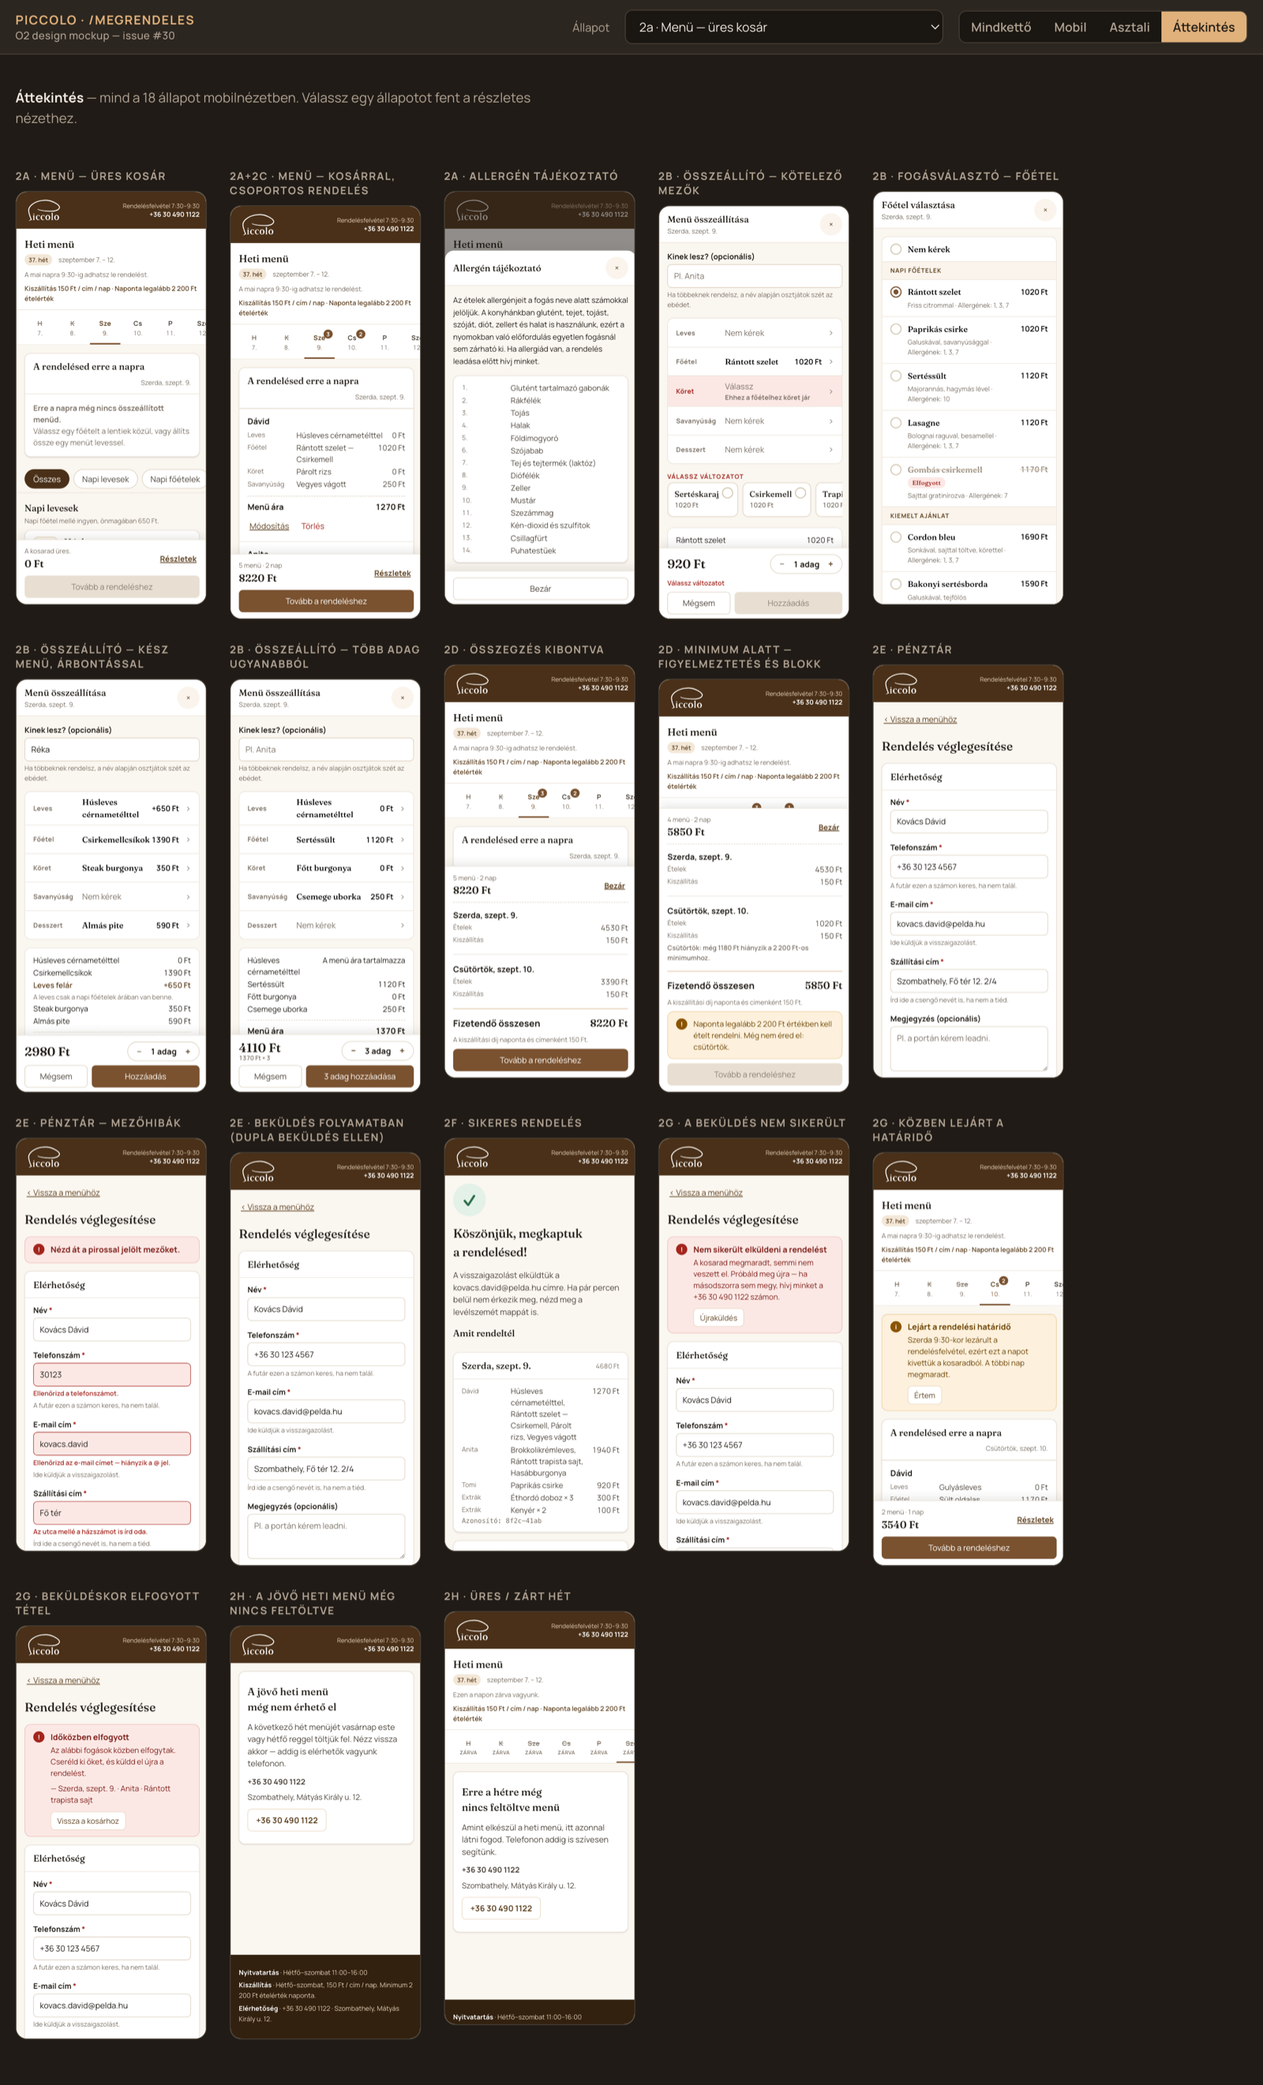
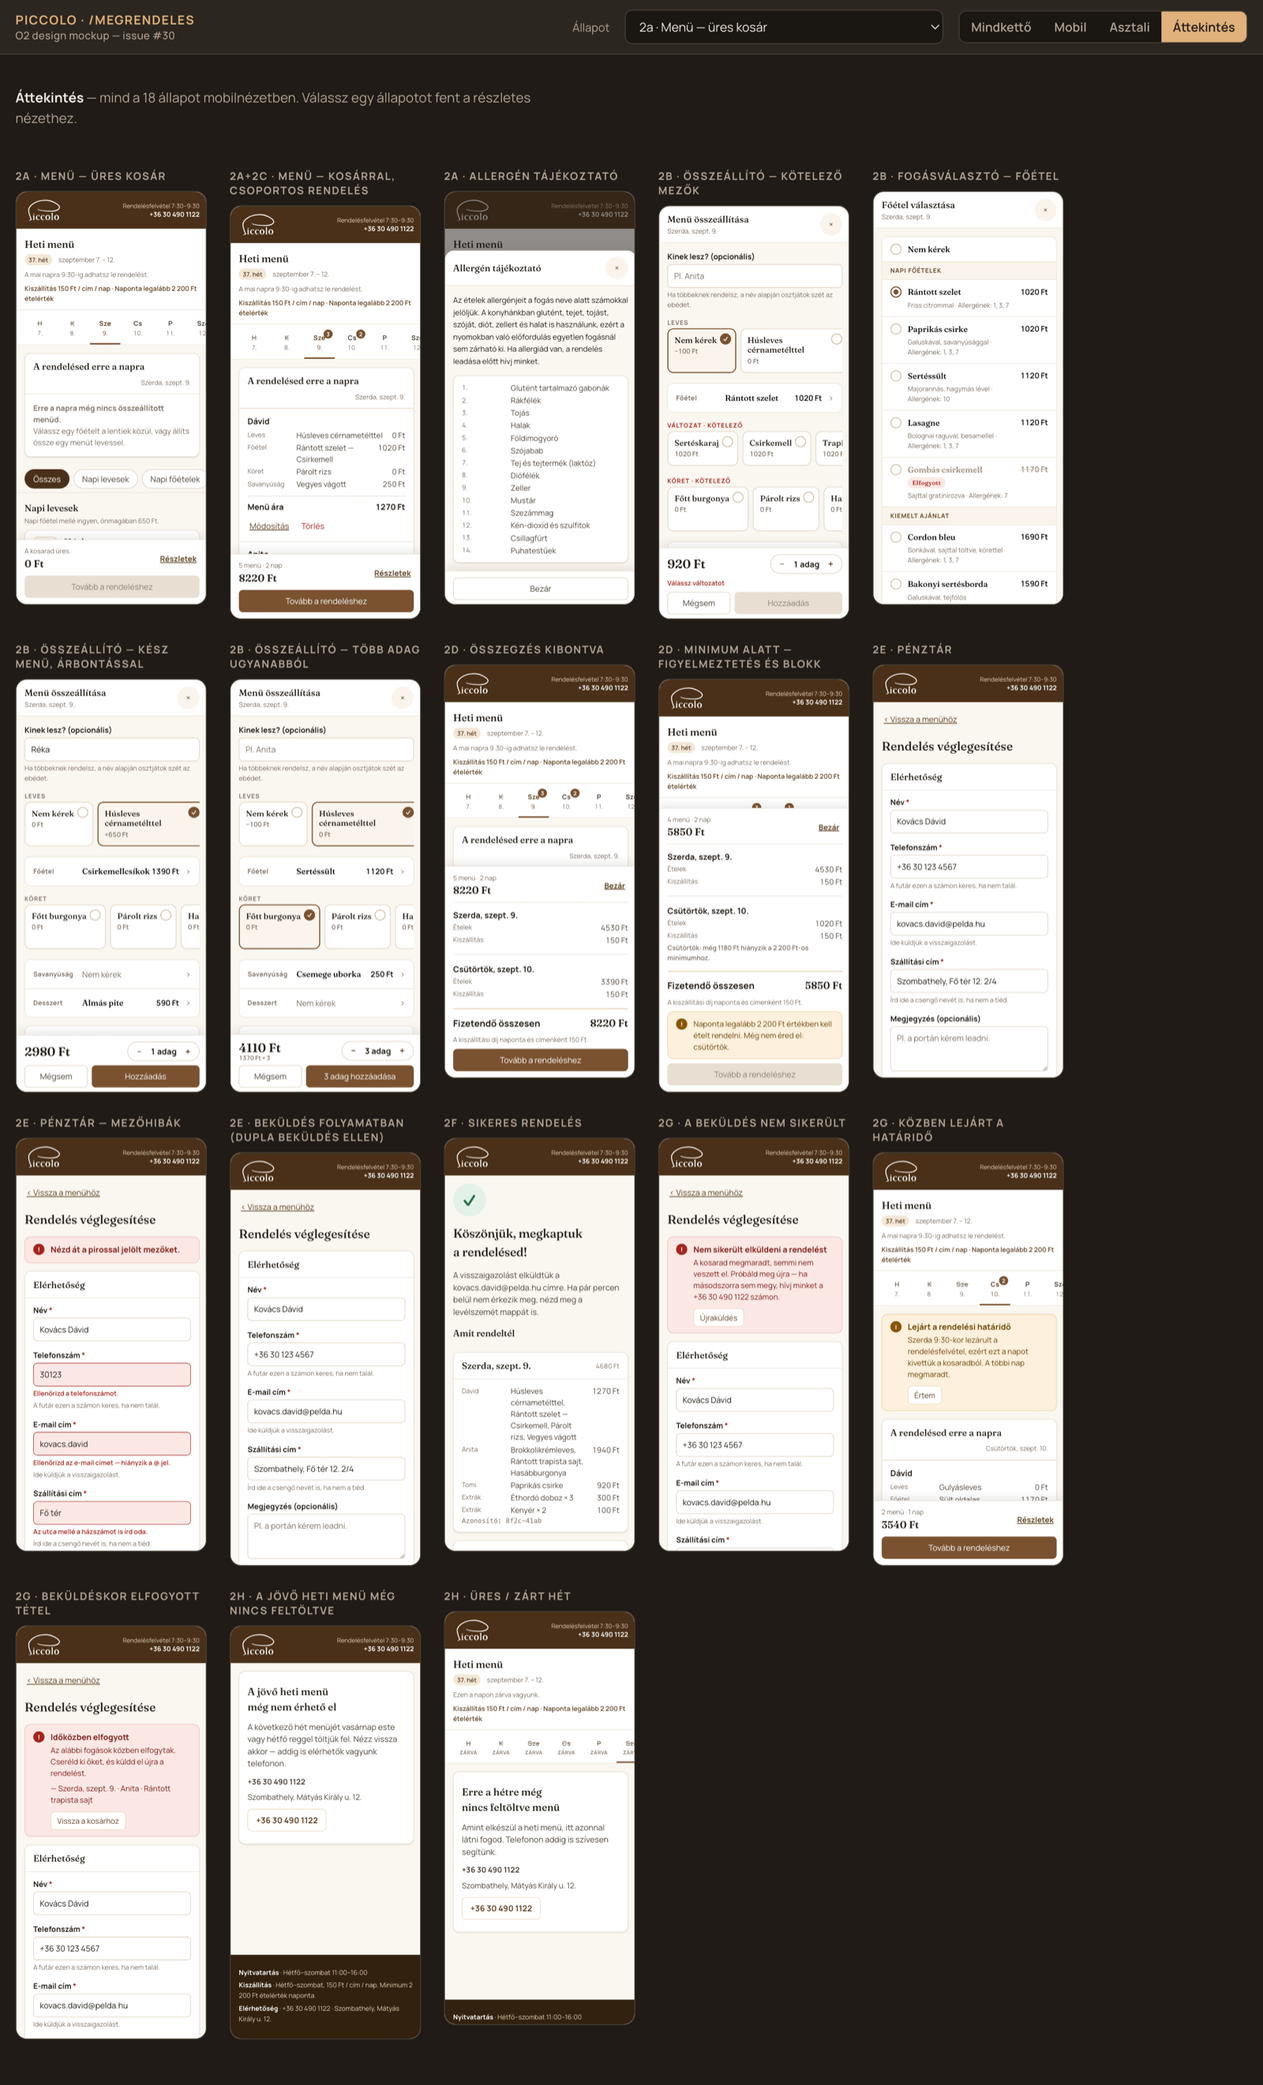
O2: make soup, variation and side inline choice cards
Dávid asked whether soup could be a radio box too. It can, and it should: the
day has two soups, and the soup slot is where both price adjustments live, so
the cards carry the adjustment itself — "Nem kérek −100 Ft", "Húsleves +650 Ft"
— visible before the tap. In the old system that price only appeared afterwards,
and it was charged at 450 while the site advertised 650.

Side gets the same treatment: seven options, and it is the only required slot,
so it should be satisfiable without leaving the sheet. Main keeps its row and
picker (11 options across three categories, and the composer is usually entered
from a main anyway). Pickle and dessert stay rows to keep the sheet short.

A required block is labelled "KÖRET · KÖTELEZŐ" — the requirement is a word, not
only a colour. Choosing a main now also clears a side that no longer applies.

Changed region(s): [[0.1875, 0.3724, 0.3125, 0.4966], [0.5312, 0.1552, 0.6875, 0.2483], [0.0312, 0.3724, 0.1562, 0.4966]]

diff --git a/docs/design/megrendeles/mockup.html b/docs/design/megrendeles/mockup.html
@@ -1260,20 +1260,21 @@
         text-decoration-color: var(--line-strong);
       }
 
-      .varcards {
+      .choicecards {
         display: flex;
         gap: var(--s-2);
         overflow-x: auto;
         scrollbar-width: none;
         padding: 2px 0 var(--s-1);
       }
-      .varcards::-webkit-scrollbar {
+      .choicecards::-webkit-scrollbar {
         display: none;
       }
-      .varcard {
+      .choicecard {
         position: relative;
         flex: none;
-        min-width: 122px;
+        min-width: 120px;
+        max-width: 210px;
         padding: var(--s-3) 36px var(--s-3) var(--s-3);
         border: 2px solid var(--line);
         border-radius: var(--radius);
@@ -1285,22 +1286,29 @@
         flex-direction: column;
         gap: 2px;
       }
-      .varcard[aria-checked='true'] {
+      .choicecard[aria-checked='true'] {
         border-color: var(--brand-600);
         background: var(--brand-50);
       }
-      .varcard .vname {
+      .choicecard .vname {
         font-family: var(--font-display);
         font-size: var(--t-base);
         font-weight: 500;
         line-height: 1.2;
+        text-wrap: balance;
       }
-      .varcard .vprice {
+      .choicecard[aria-disabled='true'] .vname,
+      .choicecard[aria-disabled='true'] .vprice {
+        color: var(--ink-500);
+        text-decoration: line-through;
+        text-decoration-color: var(--line-strong);
+      }
+      .choicecard .vprice {
         font-size: var(--t-sm);
         font-weight: 600;
         color: var(--ink-500);
       }
-      .varcard .vmark {
+      .choicecard .vmark {
         position: absolute;
         top: 8px;
         right: 8px;
@@ -1311,7 +1319,7 @@
         background: var(--paper);
         color: transparent;
       }
-      .varcard[aria-checked='true'] .vmark {
+      .choicecard[aria-checked='true'] .vmark {
         display: grid;
         place-items: center;
         border-color: var(--brand-600);
@@ -1887,6 +1895,7 @@
           none: 'Nem kérek',
           choose: 'Válassz',
           variationLabel: 'Változat',
+          requiredSuffix: 'kötelező',
           variationOf: (name) => name + ' — változat',
           variationMissing: 'Válassz változatot',
           sideMissing: 'Ehhez a főételhez köret jár',
@@ -2860,40 +2869,99 @@
               : '<span class="placeholder">' +
                 esc(opts.required ? S.composer.choose : S.composer.none) +
                 '</span>') +
-            (missing
-              ? '<span class="sub slot-req">' + esc(S.composer.sideMissing) + '</span>'
-              : '') +
             '</span><span class="amt num">' +
             esc(amt) +
             '</span><span class="chev" aria-hidden="true">›</span></button>'
           );
         };
 
-        /* Variations as selectable price cards — one tap, price visible, no nested
-           sheet. Adapted from the reference item sheet. */
-        const variationBlock = needsVariation
-          ? '<div><p class="' +
-            cls('field-label', !c.variation && 'is-required') +
+        /**
+         * Inline choice cards: one tap, no nested sheet, every option's price effect
+         * visible at once. Used where the whole option list fits — soup (2 options,
+         * and it drives both price adjustments) and side (7, and the only required
+         * slot). Main keeps the row + picker because it has 11 options across three
+         * categories; pickle and dessert keep theirs to stay quiet and keep the sheet
+         * short, but either becomes cards with one more choiceCards() call.
+         * The figure on a card is what that choice does to the menu total — for soup
+         * that is the −100 / +650 adjustment itself, which is the price the old system
+         * hid until after you had chosen.
+         */
+        const choiceCards = (slotLabel, opts) => {
+          const label = opts.required ? slotLabel + ' · ' + S.composer.requiredSuffix : slotLabel;
+          const cards = opts.options
+            .map((o) => {
+              const checked = (o.id || null) === (c[opts.slot] || null);
+              const soldOut = !!(o.id && ITEMS[o.id] && ITEMS[o.id].soldOut);
+              return (
+                '<button type="button" class="choicecard" role="radio" aria-checked="' +
+                checked +
+                '"' +
+                (soldOut ? ' aria-disabled="true" disabled' : '') +
+                ' data-pick="' +
+                esc(o.id || '') +
+                '" data-slot="' +
+                opts.slot +
+                '"><span class="vname">' +
+                esc(o.name) +
+                '</span><span class="vprice num">' +
+                esc(o.amount) +
+                '</span><span class="vmark" aria-hidden="true">✓</span></button>'
+              );
+            })
+            .join('');
+          return (
+            '<div><p class="' +
+            cls('field-label', opts.required && 'is-required') +
             '">' +
-            esc(c.variation ? S.composer.variationLabel : S.composer.variationMissing) +
-            '</p><div class="varcards" role="radiogroup" aria-label="' +
-            esc(S.composer.variationOf(mainItem.name)) +
+            esc(label) +
+            '</p><div class="choicecards" role="radiogroup" aria-label="' +
+            esc(S.composer.slots[opts.slot] || label) +
             '">' +
-            mainItem.variations
-              .map(
-                (v) =>
-                  '<button type="button" class="varcard" role="radio" aria-checked="' +
-                  (c.variation === v) +
-                  '" data-pick-variation="' +
-                  esc(v) +
-                  '"><span class="vname">' +
-                  esc(v) +
-                  '</span><span class="vprice num">' +
-                  money(priceOf(mainItem, date)) +
-                  '</span><span class="vmark" aria-hidden="true">✓</span></button>',
-              )
-              .join('') +
+            cards +
             '</div></div>'
+          );
+        };
+
+        /** What the receipt would say if this soup (or none) were chosen. */
+        const soupAmount = (id) => {
+          const adj = priceMenu({ ...c, soup: id }, date).lines.find((l) => l.adj);
+          return adj ? signed(adj.amount) : money(0);
+        };
+
+        const soupBlock = choiceCards(S.composer.slots.soup, {
+          slot: 'soup',
+          options: [
+            { id: null, name: S.composer.none, amount: soupAmount(null) },
+            ...WEEK.byDate[date].soups.map((s) => ({
+              id: s.id,
+              name: s.name,
+              amount: soupAmount(s.id),
+            })),
+          ],
+        });
+
+        const sideBlock = needsSide
+          ? choiceCards(S.composer.slots.side, {
+              slot: 'side',
+              required: !c.side,
+              options: [...WEEK.sides, ...WEEK.sideExtras].map((i) => ({
+                id: i.id,
+                name: i.name,
+                amount: money(priceOf(i, date)),
+              })),
+            })
+          : '';
+
+        const variationBlock = needsVariation
+          ? choiceCards(S.composer.variationLabel, {
+              slot: 'variation',
+              required: !c.variation,
+              options: mainItem.variations.map((v) => ({
+                id: v,
+                name: v,
+                amount: money(priceOf(mainItem, date)),
+              })),
+            })
           : '';
 
         const priceRows = p.lines
@@ -2920,14 +2988,16 @@
           '" /><p class="help">' +
           esc(S.composer.recipientHelp) +
           '</p></div>' +
+          soupBlock +
           '<div class="slots">' +
-          slotRow('soup') +
           slotRow('main') +
-          (needsSide ? slotRow('side', { required: true }) : '') +
+          '</div>' +
+          variationBlock +
+          sideBlock +
+          '<div class="slots">' +
           slotRow('pickle') +
           slotRow('dessert') +
           '</div>' +
-          variationBlock +
           (p.lines.length
             ? '<div class="pricebox">' +
               priceRows +
@@ -2939,9 +3009,7 @@
             : '<div class="banner banner-info"><span class="icon" aria-hidden="true">i</span><div><p>' +
               esc(S.composer.emptyMenu) +
               '</p></div></div>') +
-          (portions > 1
-            ? '<p class="help">' + esc(S.composer.portionsHelp) + '</p>'
-            : '');
+          (portions > 1 ? '<p class="help">' + esc(S.composer.portionsHelp) + '</p>' : '');
 
         const invalid = p.errors.length > 0;
         const errorText = p.errors.includes('variation')
@@ -2950,8 +3018,6 @@
             ? S.composer.sideMissing
             : S.composer.emptyMenu;
 
-        /* Footer taken from the reference sheet: live price left, quantity right,
-           cancel and confirm on their own row. */
         const foot =
           '<div class="foot-top"><span class="foot-price num">' +
           money(p.total * portions) +
@@ -3523,7 +3589,7 @@
         {
           id: 'composer-required',
           label: '2b · Összeállító — kötelező mezők',
-          note: 'A fogás egész sora kattintható — nincs külön „Összeállítom” gomb. A főételnek van változata és köretet is kér: a köret sora piros, a változat kártyái pirossal címkézve, a „Hozzáadás” tiltva. A kinek-mező opcionális: ez a csoportos rendelés belépője.',
+          note: 'A leves, a változat és a köret kártya — a választás nem hagyja el a lapot. Csak a főétel maradt sor + választólap, mert annak 11 opciója van három kategóriából. A kötelező blokkok címkéje piros és ki is mondja: „· kötelező”, nem csak a szín jelöl. A „Nem kérek” leveskártya már itt mutatja a −100 Ft-ot.',
           vm: () =>
             baseVm({
               cart: cartFull(),
@@ -3534,7 +3600,7 @@
         {
           id: 'picker-main',
           label: '2b · Fogásválasztó — főétel',
-          note: 'A napi főételek, a heti kiemelt ajánlat és az egész héten rendelhető tételek egy listában, csoportcímkékkel. Az elfogyott tétel áthúzva és nem választható. A változatot már nem itt választod: az az összeállítóban kártya.',
+          note: 'Az egyetlen megmaradt választólap: a főételé. Napi főételek, heti kiemelt ajánlat és egész héten rendelhető tételek egy listában, csoportcímkékkel; az elfogyott tétel áthúzva és nem választható. A leves, a változat és a köret az összeállítóban kártya.',
           vm: () =>
             baseVm({
               cart: cartFull(),
@@ -3546,7 +3612,7 @@
         {
           id: 'composer-valid',
           label: '2b · Összeállító — kész menü, árbontással',
-          note: 'Minden kötelező mező kitöltve. Az árdoboz soronként mutatja, miből áll az összeg, és megindokolja a leves felárat.',
+          note: 'Itt a főétel a „Csirkemellcsíkok”, aminek az ára nem tartalmaz levest — ezért a leveskártyán <b>+650 Ft</b> áll, még mielőtt rákoppintanál. A régi rendszerben ezt csak utólag tudtad meg (és 450-et számolt, miközben 650-et hirdetett).',
           vm: () =>
             baseVm({
               cart: cartFull(),
@@ -3826,7 +3892,7 @@
       };
 
       stage.addEventListener('click', (ev) => {
-        const el = ev.target.closest('[data-day],[data-compose],[data-slot],[data-pick],[data-pick-variation],[data-close-overlay],[data-add],[data-remove],[data-extra],[data-toggle],[data-go],[data-open],[data-jump],[data-portions]');
+        const el = ev.target.closest('[data-day],[data-compose],[data-slot],[data-pick],[data-close-overlay],[data-add],[data-remove],[data-extra],[data-toggle],[data-go],[data-open],[data-jump],[data-portions]');
         if (!el || !vm) return;
         const d = el.dataset;
 
@@ -3852,10 +3918,11 @@
           vm.overlay = 'allergens';
         } else if (d.pick !== undefined && d.slot) {
           vm.composer[d.slot] = d.pick || null;
-          if (d.slot === 'main') vm.composer.variation = null;
-          vm.overlay = 'composer';
-        } else if (d.pickVariation) {
-          vm.composer.variation = d.pickVariation;
+          if (d.slot === 'main') {
+            vm.composer.variation = null;
+            const picked = d.pick ? ITEMS[d.pick] : null;
+            if (!picked || !picked.requiresSide) vm.composer.side = null;
+          }
           vm.overlay = 'composer';
         } else if (d.slot && el.classList.contains('slot-row')) {
           vm.picker = { slot: d.slot };

diff --git a/docs/design/megrendeles/README.md b/docs/design/megrendeles/README.md
@@ -117,8 +117,8 @@ What O6/O7 need to build, in the order they appear:
 | `DayCart` | composed menus with recipient, per-line breakdown, adjustments, edit/remove, food subtotal |
 | `ExtrasRow` | name, unit price, stepper, line total |
 | `ComposerSheet` | recipient field, five slot rows, variation cards, live price box, footer with price + portions + actions |
-| `VariationCards` | one tap per variation, price on the card, accent ring and ✓ when chosen |
-| `SlotPicker` | grouped radio list, "Nem kérek" first, sold-out disabled |
+| `ChoiceCards` | soup, variation and side: one tap per option, the price effect on the card, accent ring and ✓ when chosen |
+| `SlotPicker` | grouped radio list, "Nem kérek" first, sold-out disabled — main course only |
 | `PriceBox` | item lines, adjustment lines with their reason, dashed rule, total |
 | `Totals` | per day: food, delivery fee, minimum warning; then the grand total |
 | `SummaryBar` | sticky bar on mobile, card in the rail on desktop; collapsed/expanded; blocker state |
@@ -161,7 +161,7 @@ as a flow he likes. It is a per-item marketplace, not a weekly menu, so what tra
 | Taken | Where it lands here |
 |---|---|
 | **The item sheet's anatomy** — uppercase category eyebrow, big title, description, allergens, choices, sticky action bar | The composer sheet. It was already close; now the order and the emphasis match. |
-| **Variations as selectable price cards** with an accent ring and a ✓ badge | Replaces the nested variation picker. One tap instead of two, and every variation's price is visible at once. The single biggest improvement of this revision. |
+| **Choices as selectable price cards** with an accent ring and a ✓ badge | Replaces the nested picker for **soup, variation and side**. One tap instead of two, and every option's price effect is visible before you choose. The single biggest improvement of this revision — see "Which slots are cards" below. |
 | **A footer with the live price left and the action right** | The composer footer. The old full-width button hid the price inside its own label. |
 | **A quantity stepper on the item** | "3 adag" on the composer: three colleagues, one composition, three cart rows — see decision 8. |
 | **A leading square tile on every row**, with a quiet placeholder when there is no photo | `Tile`. Piccolo has no photos (PLAN.md §2), so the tile carries the dish's initial. If photos ever arrive the tile takes them and nothing else moves. |
@@ -184,6 +184,18 @@ What we deliberately did **not** take:
   (ring plus ✓ badge), not their hue.
 - **The per-item note field.** Our domain has one note per order, and the composer's free-text
   field is already spoken for by the recipient name.
+
+### Which slots are cards, and why
+
+| Slot | Options | Treatment |
+|---|---|---|
+| Leves | 2 + "Nem kérek" | **cards** — and the card carries the adjustment, so "Nem kérek −100 Ft" and "Húsleves +650 Ft" are visible *before* the tap. This is the price the old system hid until afterwards, and undercharged by 200 Ft when it finally showed it. |
+| Főétel | 11, across three categories | **row + picker** — too many for a rail, and the composer is usually entered from a main anyway, so the slot arrives filled. |
+| Változat | 2–3 | **cards** |
+| Köret | 7 | **cards** — it is the only required slot and the usual reason the add button is disabled, so it should be satisfiable without leaving the sheet. |
+| Savanyúság, Desszert | 3 + "Nem kérek" each | **rows** — afterthoughts. Rows keep them quiet, signal "optional", and keep the sheet short. Either becomes cards with one more `choiceCards()` call if Dávid wants it. |
+
+A required card block is labelled `KÖRET · KÖTELEZŐ` in red: the requirement is a word, not only a colour.
 
 ## Decisions taken in this mockup
 

diff --git a/docs/design/megrendeles/strings.md b/docs/design/megrendeles/strings.md
@@ -118,6 +118,7 @@ export const strings = {
     none: 'Nem kérek',
     choose: 'Válassz',
     variationLabel: 'Változat',
+    requiredSuffix: 'kötelező',
     variationOf: (name: string) => name + ' — változat',
     variationMissing: 'Válassz változatot',
     sideMissing: 'Ehhez a főételhez köret jár',
